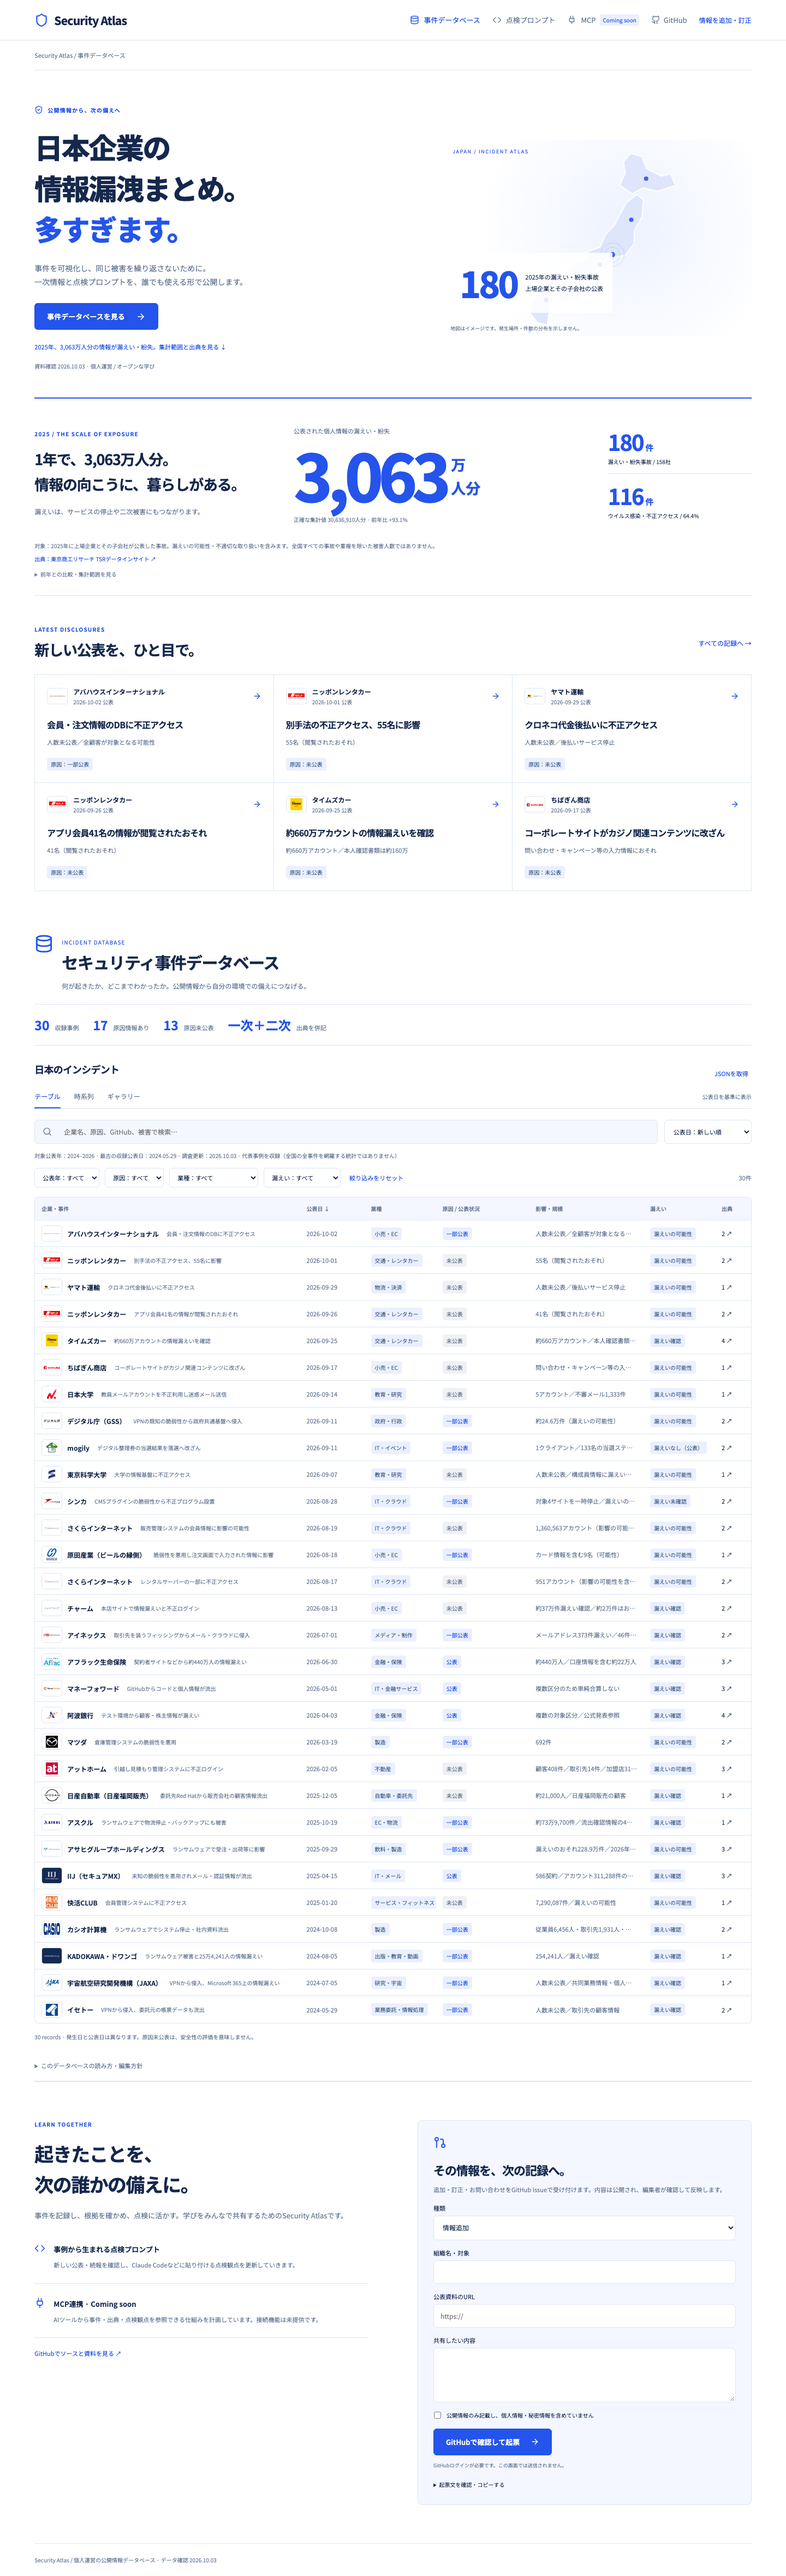
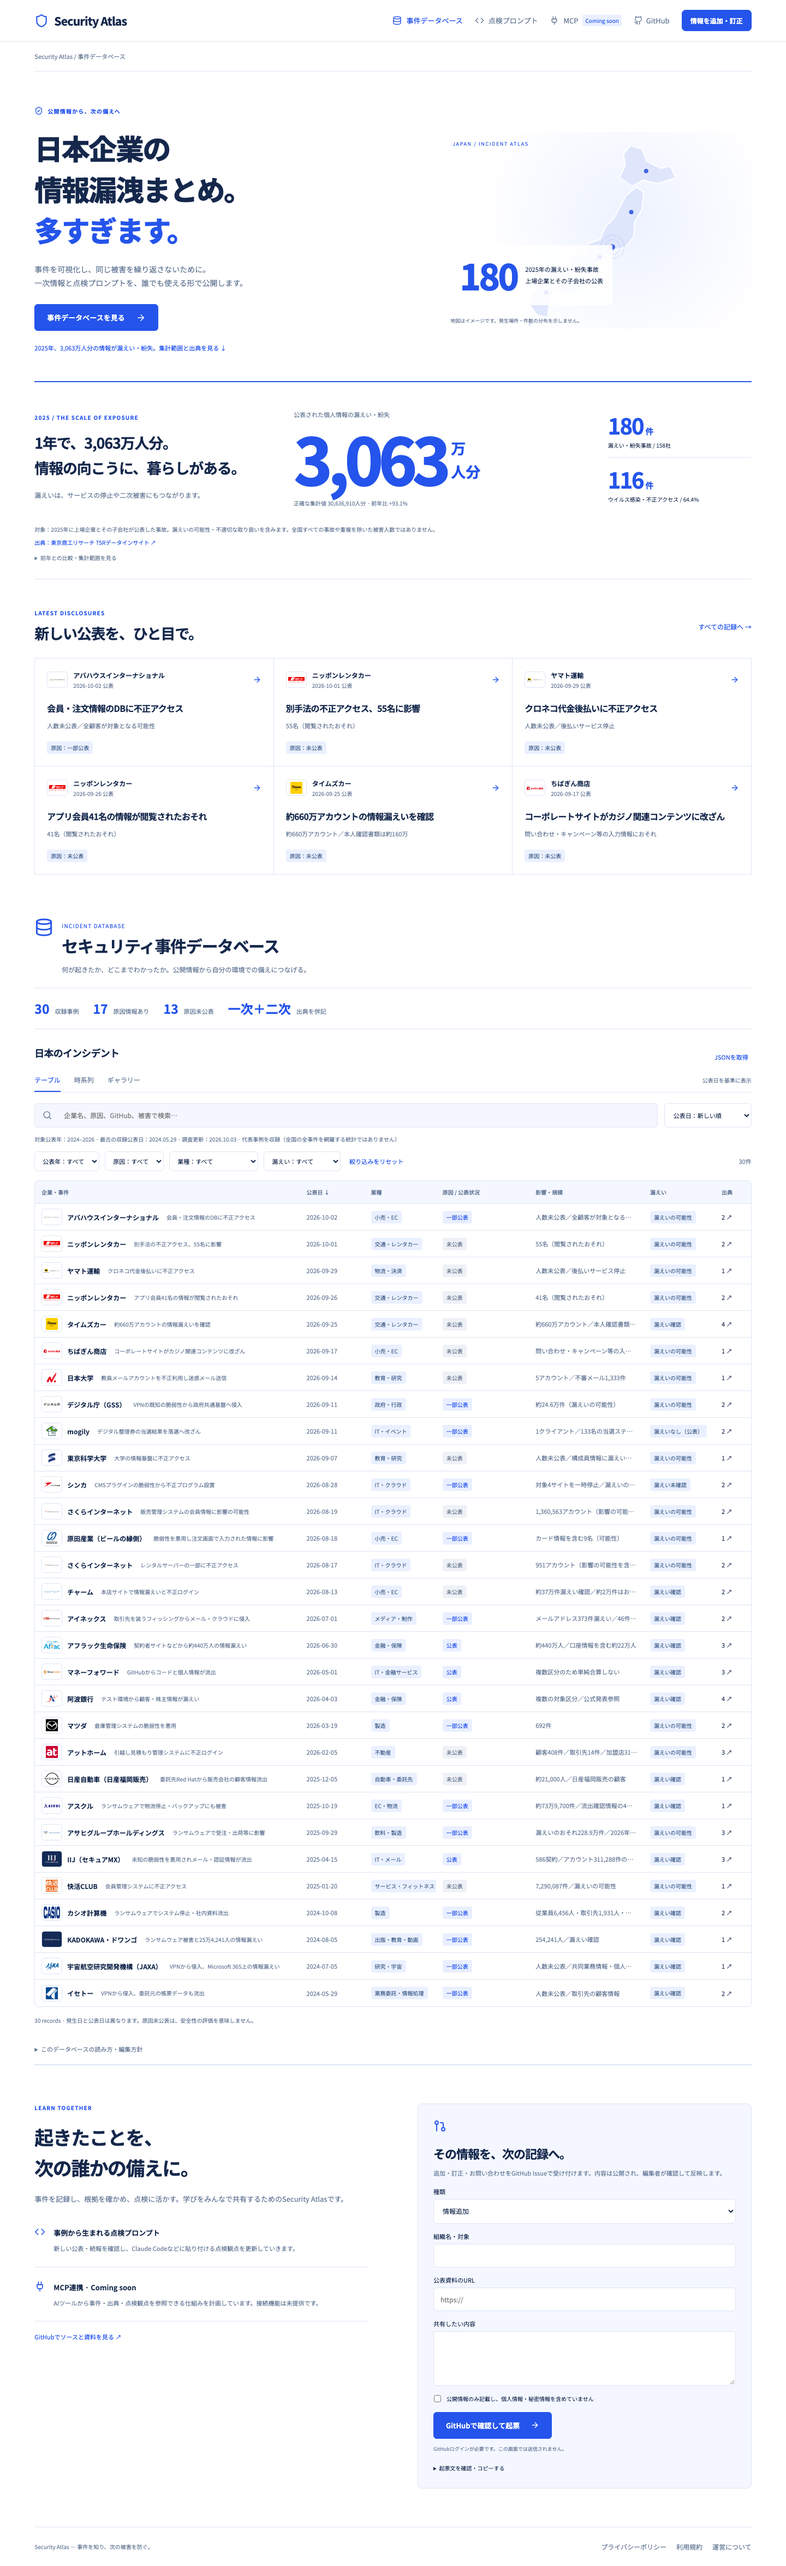
feat: polish contribution flow and add legal dialogs and launch metadata

diff --git a/src/Legal.tsx b/src/Legal.tsx
@@ -1,0 +1,77 @@
+import { useEffect, useRef, useState } from "react";
+import { X, ArrowUpRight } from "lucide-react";
+const repo = "https://github.com/chaenmasahiro0425/security-atlas";
+const pages = {
+  privacy: {
+    title: "プライバシーポリシー",
+    sections: [
+      ["入力内容は、起票前に確認できます", "情報追加・訂正フォームの入力はこの画面のメモリ内で扱います。当サイトのサーバーへ入力内容を送信・保存する機能はありません。「GitHubで確認して起票」を押すと入力内容を含むGitHubの起票画面を開きます。GitHubへ移動した時点から、同サービスの取扱いが適用されます。投稿の確定はGitHub上で行います。"],
+      ["公開Issueに載せてよい情報", "投稿されたIssue・Pull Requestは公開されます。いただいた内容は出典の確認、記録の追加・訂正、お問い合わせへの対応に利用します。氏名・連絡先などの個人情報、顧客データ、認証情報、非公開資料は入力・投稿しないでください。誤って掲載した場合はGitHub上で削除し、対象URLを添えてご連絡ください。"],
+      ["アクセス時の外部サービス", "サイト配信にVercel、フォント配信にGoogle Fonts、情報提供の受付にGitHubを利用しています。アクセス時にはIPアドレスやブラウザー情報などが各サービスで処理される場合があります。当サイト独自のアクセス解析、広告、追跡Cookie、会員登録機能は現在導入していません。"],
+      ["訂正・削除などのご連絡", "掲載情報や個人情報の取扱いに関するご要望は、GitHubの情報追加・訂正窓口で受け付けます。対象URLとご要望のみを記載し、本人確認書類や非公開情報は投稿しないでください。追加の確認が必要な場合は、対応方法を個別に相談します。"],
+      ["改定", "機能や利用サービスを変更する際は、本ポリシーを更新します。制定日：2026年10月3日。"],
+    ],
+  },
+  terms: {
+    title: "利用規約",
+    sections: [
+      ["目的と情報の範囲", "Security Atlasは、公表されたセキュリティ事件を可視化し、同じ被害を防ぐための学びを共有する個人運営のサイトです。国内の全事件を網羅する統計ではありません。一次資料、報道、未公表事項を区別して掲載し、続報に応じて更新します。"],
+      ["点検プロンプトの利用", "点検プロンプトは自分が権限を持つ環境の確認に利用してください。AIの出力や本サイトの情報だけで安全性を判断せず、実コードと一次情報を確認してください。個別の環境に対する安全性や対策の効果を保証するものではありません。"],
+      ["情報の追加・訂正", "公開資料のURLを添えてGitHub Issue・Pull Requestでご提案ください。編集者が根拠と重複を確認して反映します。投稿した内容が必ず掲載されるわけではありません。誹謗中傷、個人情報や秘密情報の掲載、権利侵害、攻撃や不正利用につながる投稿は禁止します。"],
+      ["権利と出典", "企業ロゴ・商標・引用資料の権利は各権利者に帰属します。ロゴは対象組織の識別のために表示し、提携・推薦を示すものではありません。ソースコードと編集データの利用条件はGitHubのLICENSE・DATA-LICENSE.mdを確認してください。資料の再利用時は原典の条件も確認してください。"],
+      ["更新・停止と責任", "誤りが判明した場合は訂正しますが、すべての情報の完全性・最新性を保証するものではありません。必要に応じて機能を変更・停止する場合があります。利用に関する責任は、適用される法令に従って扱います。制定日：2026年10月3日。"],
+    ],
+  },
+  operator: {
+    title: "運営について",
+    sections: [
+      ["個人でつくり、みんなで育てる", "運営：茶圓。Security Atlasは個人の取り組みとして運営しています。事件の発端、わかったこと、まだ公表されていないことを整理し、次の被害を防ぐために共有することが目的です。"],
+      ["みなさんの情報を、次の備えに", "情報追加・訂正はGitHubで受け付けています。一次情報のURL、続報、公開された技術的な原因などをお寄せください。点検プロンプトも事例の知見に合わせて改善していきます。"],
+      ["MCPは開発予定です", "事件検索・出典確認・点検観点の取得を開発ツールから使える仕組みを計画しています。MCPサーバー・接続URL・インストール設定は現在未提供です。"],
+    ],
+  },
+};
+type Page = keyof typeof pages;
+function fromHash(): Page | null {
+  const value = location.hash.slice(1);
+  return Object.prototype.hasOwnProperty.call(pages, value) ? value as Page : null;
+}
+export function LegalFooter() {
+  const [page, setPage] = useState<Page | null>(fromHash);
+  const modal = useRef<HTMLDialogElement>(null);
+  const close = () => {
+    setPage(null);
+    if (fromHash()) history.replaceState(null, "", location.pathname + location.search);
+  };
+  useEffect(() => {
+    const listener = () => setPage(fromHash());
+    window.addEventListener("hashchange", listener);
+    return () => window.removeEventListener("hashchange", listener);
+  }, []);
+  useEffect(() => {
+    if (!page) { modal.current?.close(); return; }
+    modal.current?.showModal();
+    const previous = document.body.style.overflow;
+    document.body.style.overflow = "hidden";
+    return () => { document.body.style.overflow = previous; };
+  }, [page]);
+  return <>
+    <footer className="site-footer">
+      <span>Security Atlas — 事件を知り、次の被害を防ぐ。</span>
+      <nav aria-label="サイトのご案内">
+        {(Object.keys(pages) as Page[]).map(key => <button key={key} onClick={() => {
+          history.replaceState(null, "", location.pathname + location.search + "#" + key);
+          setPage(key);
+        }}>{pages[key].title}</button>)}
+      </nav>
+    </footer>
+    <dialog className="legal-dialog" ref={modal} aria-labelledby="legal-title" onCancel={close} onClose={close} onClick={e => { if (e.target === modal.current) close(); }}>
+      {page && <article>
+        <header><h2 id="legal-title">{pages[page].title}</h2><button autoFocus onClick={close} aria-label="案内を閉じる"><X /></button></header>
+        {pages[page].sections.map(([title, text]) => <section key={title}><h3>{title}</h3><p>{text}</p></section>)}
+        {page === "privacy" && <p className="legal-external">外部サービスのポリシー：<a href="https://vercel.com/legal/privacy-policy" target="_blank" rel="noreferrer">Vercel</a> · <a href="https://policies.google.com/privacy" target="_blank" rel="noreferrer">Google</a> · <a href="https://docs.github.com/en/site-policy/privacy-policies/github-general-privacy-statement" target="_blank" rel="noreferrer">GitHub</a></p>}
+        <a className="atlas-cta" href={repo + "/issues/new/choose"} target="_blank" rel="noreferrer">情報追加・訂正の窓口 <ArrowUpRight size={17} /></a>
+      </article>}
+    </dialog>
+  </>;
+}

diff --git a/tests/legal.spec.ts b/tests/legal.spec.ts
@@ -1,0 +1,41 @@
+import { test, expect } from "@playwright/test";
+const base = 'http://127.0.0.1:3182';
+test('participation button and legal dialogs preserve filters and support keyboard', async ({page}) => {
+ await page.goto(base + '/?q=GitHub&view=ギャラリー');
+ await expect(page.locator('.gallery-card')).toHaveCount(1);
+ await expect(page.locator('.hero-copy')).not.toContainText('資料確認');
+ const cta=page.locator('.contribute-nav');
+ expect(await cta.evaluate(e=>getComputedStyle(e).backgroundColor)).toBe('rgb(36, 84, 235)');
+ await cta.click(); await expect(page.locator('.commons h3')).toBeVisible();
+ await page.getByRole('button',{name:'プライバシーポリシー',exact:true}).click();
+ await expect(page.getByRole('dialog')).toBeVisible();
+ await expect(page.getByRole('dialog')).toContainText('Google Fonts');
+ await expect(page.getByRole('button',{name:'案内を閉じる'})).toBeFocused();
+ await page.reload(); await expect(page.getByRole('dialog')).toBeVisible();
+ await page.keyboard.press('Escape'); await expect(page.getByRole('dialog')).not.toBeVisible();
+ expect(new URL(page.url()).searchParams.get('q')).toBe('GitHub');
+ await expect(page.locator('.gallery-card')).toHaveCount(1);
+ for(const title of ['利用規約','運営について']){
+  await page.getByRole('button',{name:title,exact:true}).click();
+  await expect(page.getByRole('dialog').getByRole('heading',{name:title,exact:true})).toBeVisible();
+  await page.getByRole('button',{name:'案内を閉じる'}).click();
+ }
+});
+for(const width of [320,390,1440])test(`legal content fits ${width}px`,async({page})=>{
+ await page.setViewportSize({width,height:844}); await page.goto(base+'/#privacy');
+ const dialog=page.getByRole('dialog'); await expect(dialog).toBeVisible();
+ expect(await dialog.evaluate(e=>e.scrollWidth<=e.clientWidth)).toBe(true);
+ expect(await page.evaluate(()=>document.documentElement.scrollWidth<=innerWidth)).toBe(true);
+ await dialog.locator('.atlas-cta').scrollIntoViewIfNeeded();
+ await expect(dialog.locator('.atlas-cta')).toBeVisible();
+});
+
+test('unknown legal hash is ignored safely', async ({page}) => {
+ const errors: string[]=[]; page.on('pageerror', error => errors.push(error.message));
+ await page.goto(base+'/#constructor');
+ await expect(page.locator('tr.incident').first()).toBeVisible();
+ await expect(page.getByRole('dialog')).not.toBeVisible();
+ await page.getByRole('button',{name:'運営について',exact:true}).click();
+ await expect(page.getByRole('dialog')).toContainText('運営：茶圓');
+ expect(errors).toEqual([]);
+});

diff --git a/src/style.css b/src/style.css
@@ -1618,3 +1618,43 @@ footer {
     gap: 10px;
   }
 }
+
+.contribute-nav {
+  display: inline-flex;
+  align-items: center;
+  justify-content: center;
+  padding: 10px 15px;
+  border-radius: 7px;
+  border: 1px solid var(--blue);
+  background: var(--blue);
+  color: #fff !important;
+  font-weight: 700;
+  white-space: nowrap;
+}
+.contribute-nav:hover { background: #173dcc; }
+.site-footer { display: flex; align-items: center; justify-content: space-between; gap: 20px; flex-wrap: wrap; }
+.site-footer nav { display: flex; flex-wrap: wrap; gap: 18px; margin-left: auto; }
+.site-footer button { padding: 5px 0; border: 0; background: transparent; color: var(--muted); font-size: 12px; cursor: pointer; }
+.site-footer button:hover { color: var(--blue); }
+.legal-dialog { width: min(760px, calc(100vw - 32px)); max-height: calc(100dvh - 40px); padding: 0; border: 1px solid var(--line); border-radius: 18px; color: var(--ink); background: white; }
+.legal-dialog::backdrop { background: #15284c66; backdrop-filter: blur(4px); }
+.legal-dialog article { padding: 32px 38px; }
+.legal-dialog header { display: flex; align-items: center; justify-content: space-between; gap: 20px; padding-bottom: 22px; border-bottom: 1px solid var(--line); }
+.legal-dialog h2 { margin: 0; font-size: 26px; }
+.legal-dialog header button { display: grid; place-items: center; background: var(--wash); color: var(--blue); border: 1px solid var(--line); border-radius: 50%; width: 40px; height: 40px; cursor: pointer; flex-shrink: 0; }
+.legal-dialog section { margin-top: 28px; }
+.legal-dialog h3 { font-size: 17px; margin: 0 0 10px; }
+.legal-dialog p { font-size: 14px; line-height: 1.95; color: #435b7b; }
+.legal-dialog .atlas-cta { margin-top: 20px; font-size: 13px; }
+.legal-external a { color: var(--blue); }
+@media(max-width:650px) {
+  .contribute-nav { padding: 8px 10px; }
+  .site-footer { flex-direction: column; align-items: flex-start; }
+  .site-footer nav { margin-left: 0; gap: 14px; }
+  .legal-dialog article { padding: 24px 20px; }
+  .legal-dialog h2 { font-size: 21px; }
+}
+@media (min-width:651px) and (max-width:900px) {
+  .sidebar { flex-wrap: wrap; justify-content: flex-start; gap: 14px 18px; }
+  .sidebar .brand { flex-basis: 100%; margin-right: 0; }
+}

diff --git a/index.html b/index.html
@@ -20,9 +20,22 @@
       content="事件を可視化し、同じ被害を繰り返さないために。一次情報と点検プロンプトを公開。"
     />
     <meta property="og:url" content="https://securityatlas.org/" />
+    <meta property="og:type" content="website" />
+    <meta property="og:locale" content="ja_JP" />
+    <meta property="og:site_name" content="Security Atlas" />
+    <meta property="og:image" content="https://securityatlas.org/og.png" />
+    <meta property="og:image:width" content="1200" />
+    <meta property="og:image:height" content="630" />
+    <meta property="og:image:alt" content="日本企業の情報漏洩まとめ。多すぎます。Security Atlas" />
+    <meta name="twitter:card" content="summary_large_image" />
+    <meta name="twitter:title" content="日本企業の情報漏洩まとめ。多すぎます。 | Security Atlas" />
+    <meta name="twitter:description" content="一次情報と点検プロンプトを公開。事件を知り、次の被害を防ぐ。" />
+    <meta name="twitter:image" content="https://securityatlas.org/og.png" />
+    <script type="application/ld+json">{"@context":"https://schema.org","@type":"WebSite","name":"Security Atlas","url":"https://securityatlas.org/","inLanguage":"ja","description":"日本企業の情報漏洩・不正アクセスを一次情報と点検プロンプトで整理する公開データベース","creator":{"@type":"Person","name":"茶圓"}}</script>
   </head>
   <body>
     <div id="root"></div>
+    <noscript><h1>日本企業の情報漏洩まとめ。Security Atlas</h1><p>公表された事件を可視化し、同じ被害を防ぐために、一次情報と点検プロンプトを公開しています。2024〜2026年の代表事例を収録しています。検索と詳細表示はJavaScriptを有効にしてご利用ください。</p><a href="https://github.com/chaenmasahiro0425/security-atlas">公開データと点検プロンプトを見る</a></noscript>
     <script type="module" src="/src/main.tsx"></script>
   </body>
 </html>

diff --git a/src/main.tsx b/src/main.tsx
@@ -19,6 +19,7 @@ import { filterIncidents } from "./search";
 import type { Incident } from "./types";
 import "./style.css";
 import { Home, Community, Logo } from "./Home";
+import { LegalFooter } from "./Legal";
 type Research = {
   headline: string;
   scope: string;
@@ -576,10 +577,7 @@ function App() {
           </>
         )}
         <Community />
-        <footer>
-          Security Atlas / 個人運営の公開情報データベース · データ確認
-          2026.10.03
-        </footer>
+        <LegalFooter />
       </main>
       <dialog
         className="detail-dialog"

diff --git a/src/Home.tsx b/src/Home.tsx
@@ -59,7 +59,6 @@ export function Home({
           <a className="hero-stat-link" href="#annual-statistics">
             2025年、3,063万人分の情報が漏えい・紛失。集計範囲と出典を見る ↓
           </a>
-          <small>資料確認 2026.10.03 · 個人運営 / オープンな学び</small>
         </div>
         <div className="atlas-map">
           <svg className="japan" viewBox="0 0 390 450">

diff --git a/README.md b/README.md
@@ -63,10 +63,10 @@ npm run dev
 npm test
 npm run build
 npx playwright install chromium
-npx playwright test tests/ui.spec.ts tests/experience.spec.ts --workers=1
+npx playwright test tests/ui.spec.ts tests/experience.spec.ts tests/legal.spec.ts --workers=2
 ```
 
-E2E実行には開発サーバーが必要です。検索、年度、ギャラリー、共有URL、JSON取得、全画面と前後移動、キーボード、320〜1440pxの画面幅、データ読込失敗、起票文を確認します。
+E2E実行には開発サーバーが必要です。検索、年度、ギャラリー、共有URL、JSON取得、全画面と前後移動、キーボード、320〜1440pxの画面幅、データ読込失敗、起票文、規約モーダルの再読込とキーボード操作を確認します。
 
 ## データの構成
 
